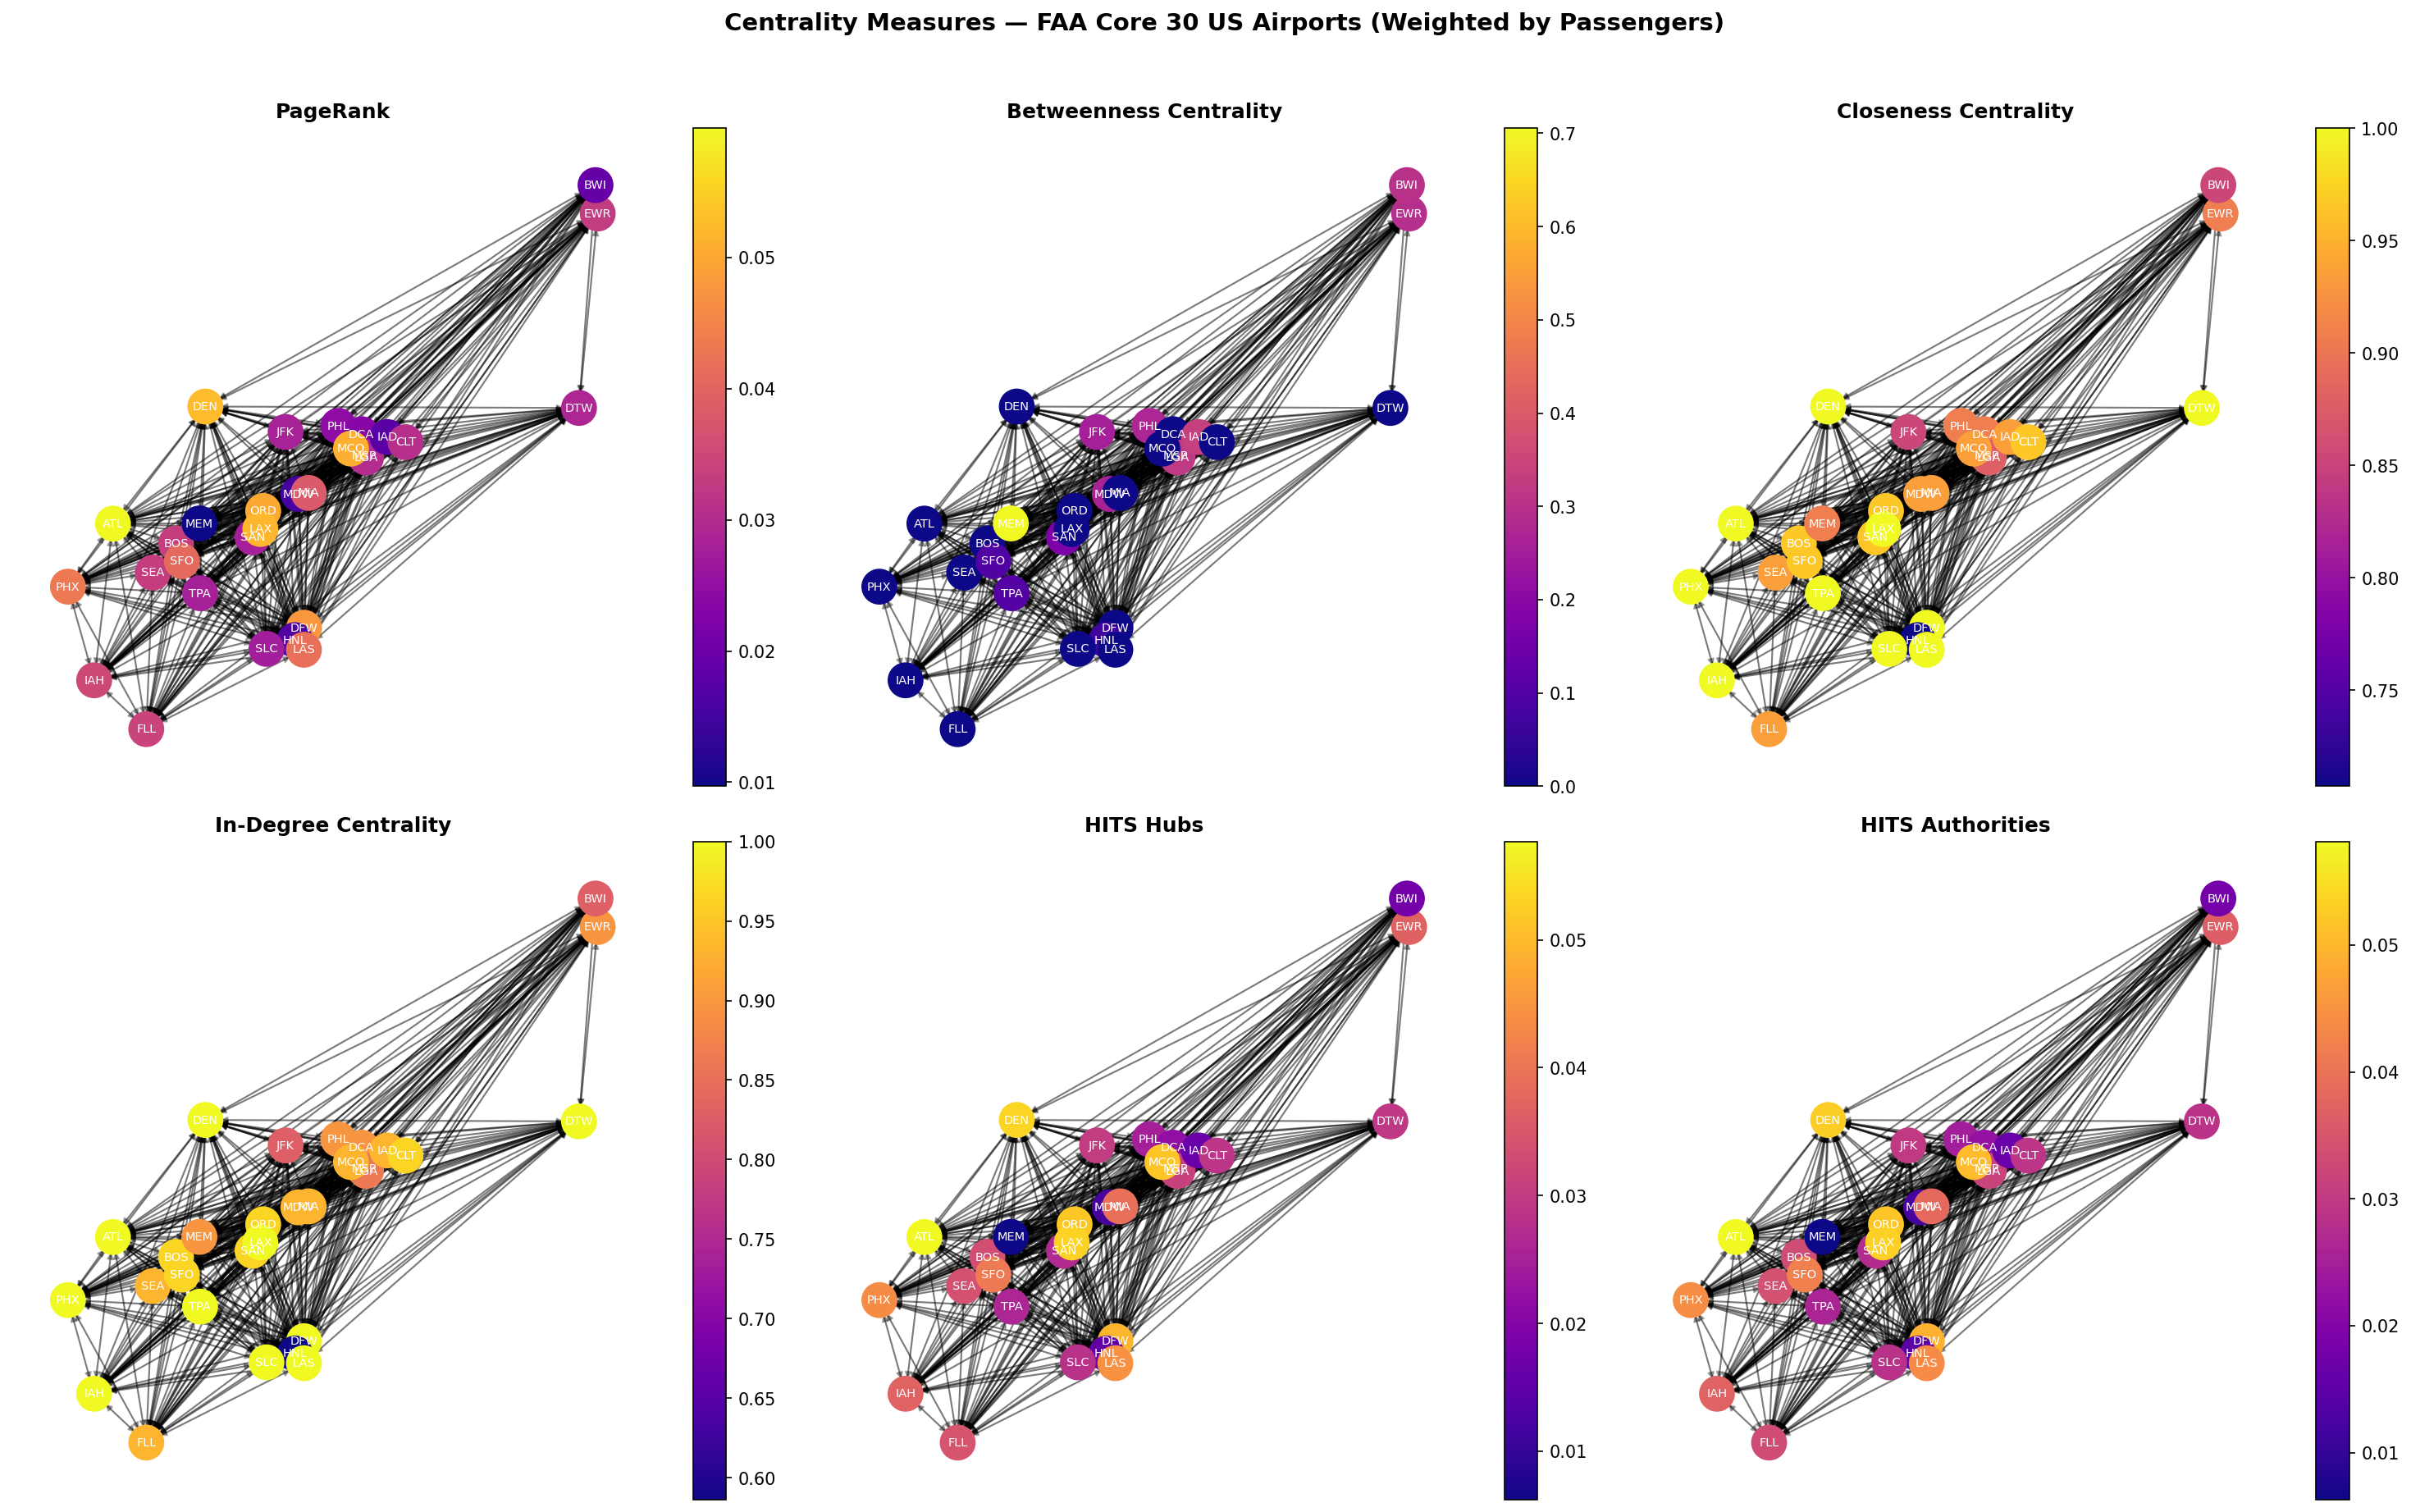
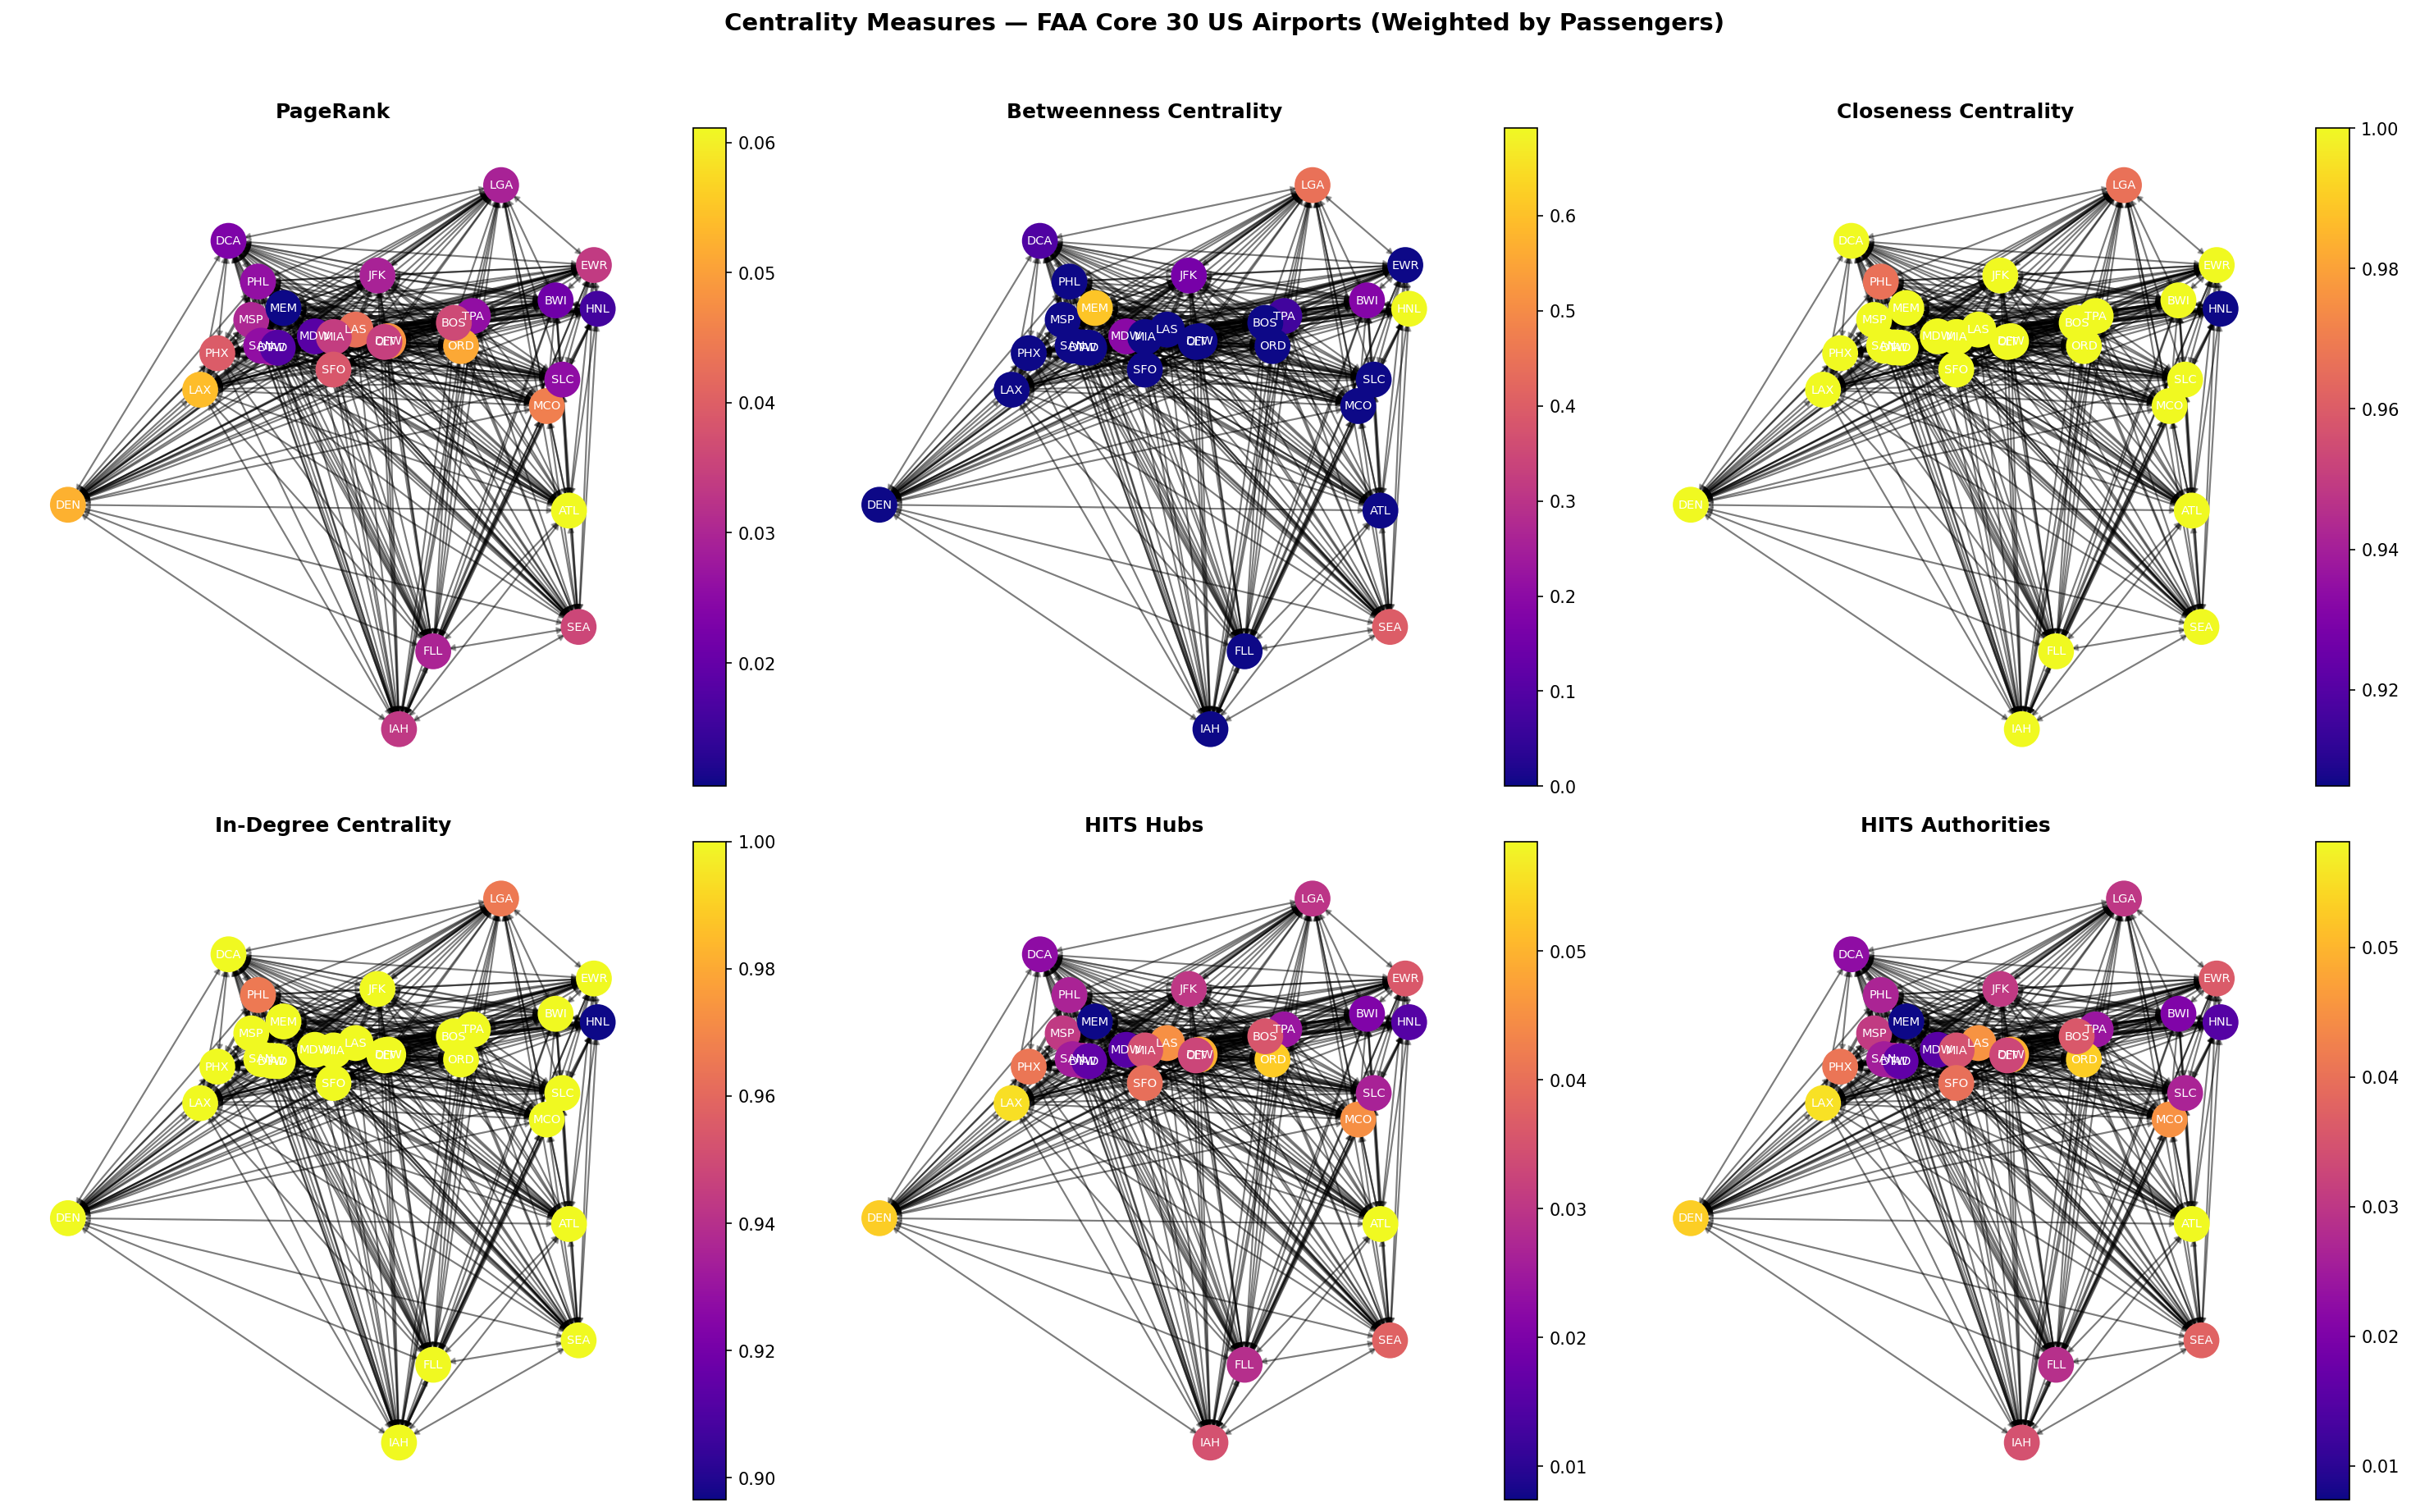
update analysis to use full 2018-2026 dataset

diff --git a/src/analysis.py b/src/analysis.py
@@ -2,13 +2,8 @@ import pandas as pd
 import networkx as nx
 import matplotlib.pyplot as plt
 import matplotlib.colors as mcolors
-import sys
-import os
 
-from main import build_graph
-sys.path.append(os.path.join(os.path.dirname(__file__), "src"))
 
-ROUTES_CSV = "T100.csv"
 OURAIRPORTS_URL = "https://davidmegginson.github.io/ourairports-data/airports.csv"
 
 CORE_30 = {"ATL", "BOS", "BWI", "CLT", "DCA", "DEN", "DFW", "DTW", "EWR",
@@ -17,36 +12,52 @@ CORE_30 = {"ATL", "BOS", "BWI", "CLT", "DCA", "DEN", "DFW", "DTW", "EWR",
            "SFO", "SLC", "TPA"}
 
 def build_weighted_graph() -> nx.DiGraph:
-    airports = pd.read_csv(OURAIRPORTS_URL)
-    airports = airports[
-        (airports["iso_country"] == "US")
-        & airports["iata_code"].notna()
-        & (airports["iata_code"].str.len() == 3)
-    ].copy()
-    airports["iata_code"] = airports["iata_code"].str.upper()
-
-    routes = pd.read_csv(ROUTES_CSV, low_memory=False)
-    routes.columns = routes.columns.str.strip().str.upper().str.replace(" ", "_")
-    routes = routes[["ORIGIN", "DEST", "PASSENGERS"]].dropna()
-    routes["ORIGIN"] = routes["ORIGIN"].astype(str).str.strip().str.upper()
-    routes["DEST"] = routes["DEST"].astype(str).str.strip().str.upper()
+    dfs = []
+    
+    # 2018-2020 files (no PASSENGERS column — use 1 as proxy)
+    files_2018_2020 = [
+        "monthly/T_T100 2018.csv",
+        "monthly/T_T100 2019.csv",
+        "monthly/T_T100 2020.csv",
+    ]
+    for path in files_2018_2020:
+        df = pd.read_csv(path, low_memory=False)
+        df.columns = df.columns.str.strip().str.upper()
+        df = df[["ORIGIN", "DEST"]].dropna()
+        df["ORIGIN"] = df["ORIGIN"].astype(str).str.strip().str.upper()
+        df["DEST"] = df["DEST"].astype(str).str.strip().str.upper()
+        df["PASSENGERS"] = 1
+        dfs.append(df)
+    
+    # 2021-2025 + 2026 files (have PASSENGERS column)
+    files_with_passengers = [
+        "monthly/T_T100D_MARKET_ALL_CARRIER 2_2021.csv",
+        "monthly/T_T100D_MARKET_ALL_CARRIER 2_2022.csv",
+        "monthly/T_T100D_MARKET_ALL_CARRIER 2_2023.csv",
+        "monthly/T_T100D_MARKET_ALL_CARRIER 2_2024.csv",
+        "monthly/T_T100D_MARKET_ALL_CARRIER 2_2025.csv",
+        "T100.csv",
+    ]
+    for path in files_with_passengers:
+        df = pd.read_csv(path, low_memory=False)
+        df.columns = df.columns.str.strip().str.upper().str.replace(" ", "_")
+        df = df[["ORIGIN", "DEST", "PASSENGERS"]].dropna()
+        df["ORIGIN"] = df["ORIGIN"].astype(str).str.strip().str.upper()
+        df["DEST"] = df["DEST"].astype(str).str.strip().str.upper()
+        dfs.append(df)
+    
+    routes = pd.concat(dfs, ignore_index=True)
     routes = routes[routes["ORIGIN"] != routes["DEST"]]
-
-    # Filter to Core 30 only
     routes = routes[routes["ORIGIN"].isin(CORE_30) & routes["DEST"].isin(CORE_30)]
-
-    # Aggregate passengers per route
     route_weights = routes.groupby(["ORIGIN", "DEST"])["PASSENGERS"].sum().reset_index()
-
+    
     G = nx.DiGraph()
     for iata in CORE_30:
         G.add_node(iata)
-
     for _, row in route_weights.iterrows():
         if row["PASSENGERS"] > 0:
             G.add_edge(row["ORIGIN"], row["DEST"], weight=row["PASSENGERS"])
-
-    # Remove isolated nodes
+    
     isolated = list(nx.isolates(G))
     G.remove_nodes_from(isolated)
     return G
@@ -82,27 +93,6 @@ def print_rankings(pagerank, betweenness, closeness, degree, hubs, authorities, 
     print(f"\n{'='*40}\nTOP {top_n} AUTHORITIES (HITS)\n{'='*40}")
     for a, s in top(authorities): print(f"  {a}: {s:.4f}")
 
-def plot_centrality(G : nx.DiGraph, measures: dict, title: str, save_path: str = "snapshots/"):
-    pos = nx.spring_layout(G, seed=42)
-    values = list(measures.values())
-
-    plt.figure(figsize=(12, 8))
-    nodes = nx.draw_networkx_nodes(
-        G, pos,
-        node_size=400,
-        cmap=plt.cm.plasma,
-        node_color=values,
-    )
-    nodes.set_norm(mcolors.Normalize(vmin=min(values), vmax=max(values)))
-    nx.draw_networkx_labels(G, pos, font_size=8, font_color="white")
-    nx.draw_networkx_edges(G, pos, alpha=0.4, arrows=True, arrowsize=10)
-    plt.colorbar(nodes)
-    plt.title(title)
-    plt.axis("off")
-    plt.tight_layout()
-    if save_path:
-        plt.savefig(save_path + "WEIGHTED_" + title.replace(' ', '_').lower() + ".png", dpi=300, bbox_inches='tight')
-    # plt.show()
 
 def plot_all_centralities(G, pagerank, betweenness, closeness, degree, hubs, authorities):
     pos = nx.spring_layout(G, seed=42)
@@ -278,74 +268,3 @@ if __name__ == "__main__":
     cut_set_analysis(G)
     plot_cut_set(G)
 
-# Unweighted centrality measures (for comparison)
-def compute_centralities(G):
-    pagerank = nx.pagerank(G, alpha=0.85)
-    betweenness = nx.betweenness_centrality(G)
-    closeness = nx.closeness_centrality(G)
-    degree = nx.in_degree_centrality(G)
-    hubs, authorities = nx.hits(G)
-    return pagerank, betweenness, closeness, degree, hubs, authorities
-
-def print_rankings(pagerank, betweenness, closeness, degree, hubs, authorities, top_n=10):
-    def top(d):
-        return sorted(d.items(), key=lambda x: x[1], reverse=True)[:top_n]
-
-    print(f"\n{'='*40}\nTOP {top_n} BY PAGERANK\n{'='*40}")
-    for a, s in top(pagerank): print(f"  {a}: {s:.4f}")
-
-    print(f"\n{'='*40}\nTOP {top_n} BY BETWEENNESS\n{'='*40}")
-    for a, s in top(betweenness): print(f"  {a}: {s:.4f}")
-
-    print(f"\n{'='*40}\nTOP {top_n} BY CLOSENESS\n{'='*40}")
-    for a, s in top(closeness): print(f"  {a}: {s:.4f}")
-
-    print(f"\n{'='*40}\nTOP {top_n} BY IN-DEGREE CENTRALITY\n{'='*40}")
-    for a, s in top(degree): print(f"  {a}: {s:.4f}")
-
-    print(f"\n{'='*40}\nTOP {top_n} HUBS (HITS)\n{'='*40}")
-    for a, s in top(hubs): print(f"  {a}: {s:.4f}")
-
-    print(f"\n{'='*40}\nTOP {top_n} AUTHORITIES (HITS)\n{'='*40}")
-    for a, s in top(authorities): print(f"  {a}: {s:.4f}")
-
-def plot_centrality(G: nx.DiGraph, measures: dict, title: str, save_path: str = "snapshots/"):
-    pos = nx.spring_layout(G, seed=42)
-    values = list(measures.values())
-    
-    plt.figure(figsize=(12, 8))
-    nodes = nx.draw_networkx_nodes(
-        G, pos,
-        node_size=400,
-        cmap=plt.cm.plasma,
-        node_color=values,
-    )
-    nodes.set_norm(mcolors.Normalize(vmin=min(values), vmax=max(values)))
-    nx.draw_networkx_labels(G, pos, font_size=8, font_color="white")
-    nx.draw_networkx_edges(G, pos, alpha=0.4, arrows=True, arrowsize=10)
-    plt.colorbar(nodes)
-    plt.title(title)
-    plt.axis("off")
-    plt.tight_layout()
-    if save_path:
-        plt.savefig(save_path + "UNWEIGHTED_" + title.replace(' ', '_').lower() + ".png", dpi=300, bbox_inches='tight')
-    # plt.show()
-
-if __name__ == "__main__":
-    print("Building graph...")
-    G = build_graph()
-    print(f"Graph: {G.number_of_nodes()} airports, {G.number_of_edges()} routes")
-
-    print("Computing centralities...")
-    pagerank, betweenness, closeness, degree, hubs, authorities = compute_centralities(G)
-
-    print_rankings(pagerank, betweenness, closeness, degree, hubs, authorities)
-
-    # TODO: CONVERT THIS INTO MATPLOTLIB SUBPLOTS INSTEAD OF SEPARATE PLOTS
-    plot_centrality(G, pagerank, "PageRank — Core 30 US Airports")
-    plot_centrality(G, betweenness, "Betweenness Centrality — Core 30 US Airports")
-    plot_centrality(G, closeness, "Closeness Centrality — Core 30 US Airports")
-    plot_centrality(G, degree, "In-Degree Centrality — Core 30 US Airports")
-    plot_centrality(G, hubs, "HITS Hubs — Core 30 US Airports")
-    plot_centrality(G, authorities, "HITS Authorities — Core 30 US Airports")
-    